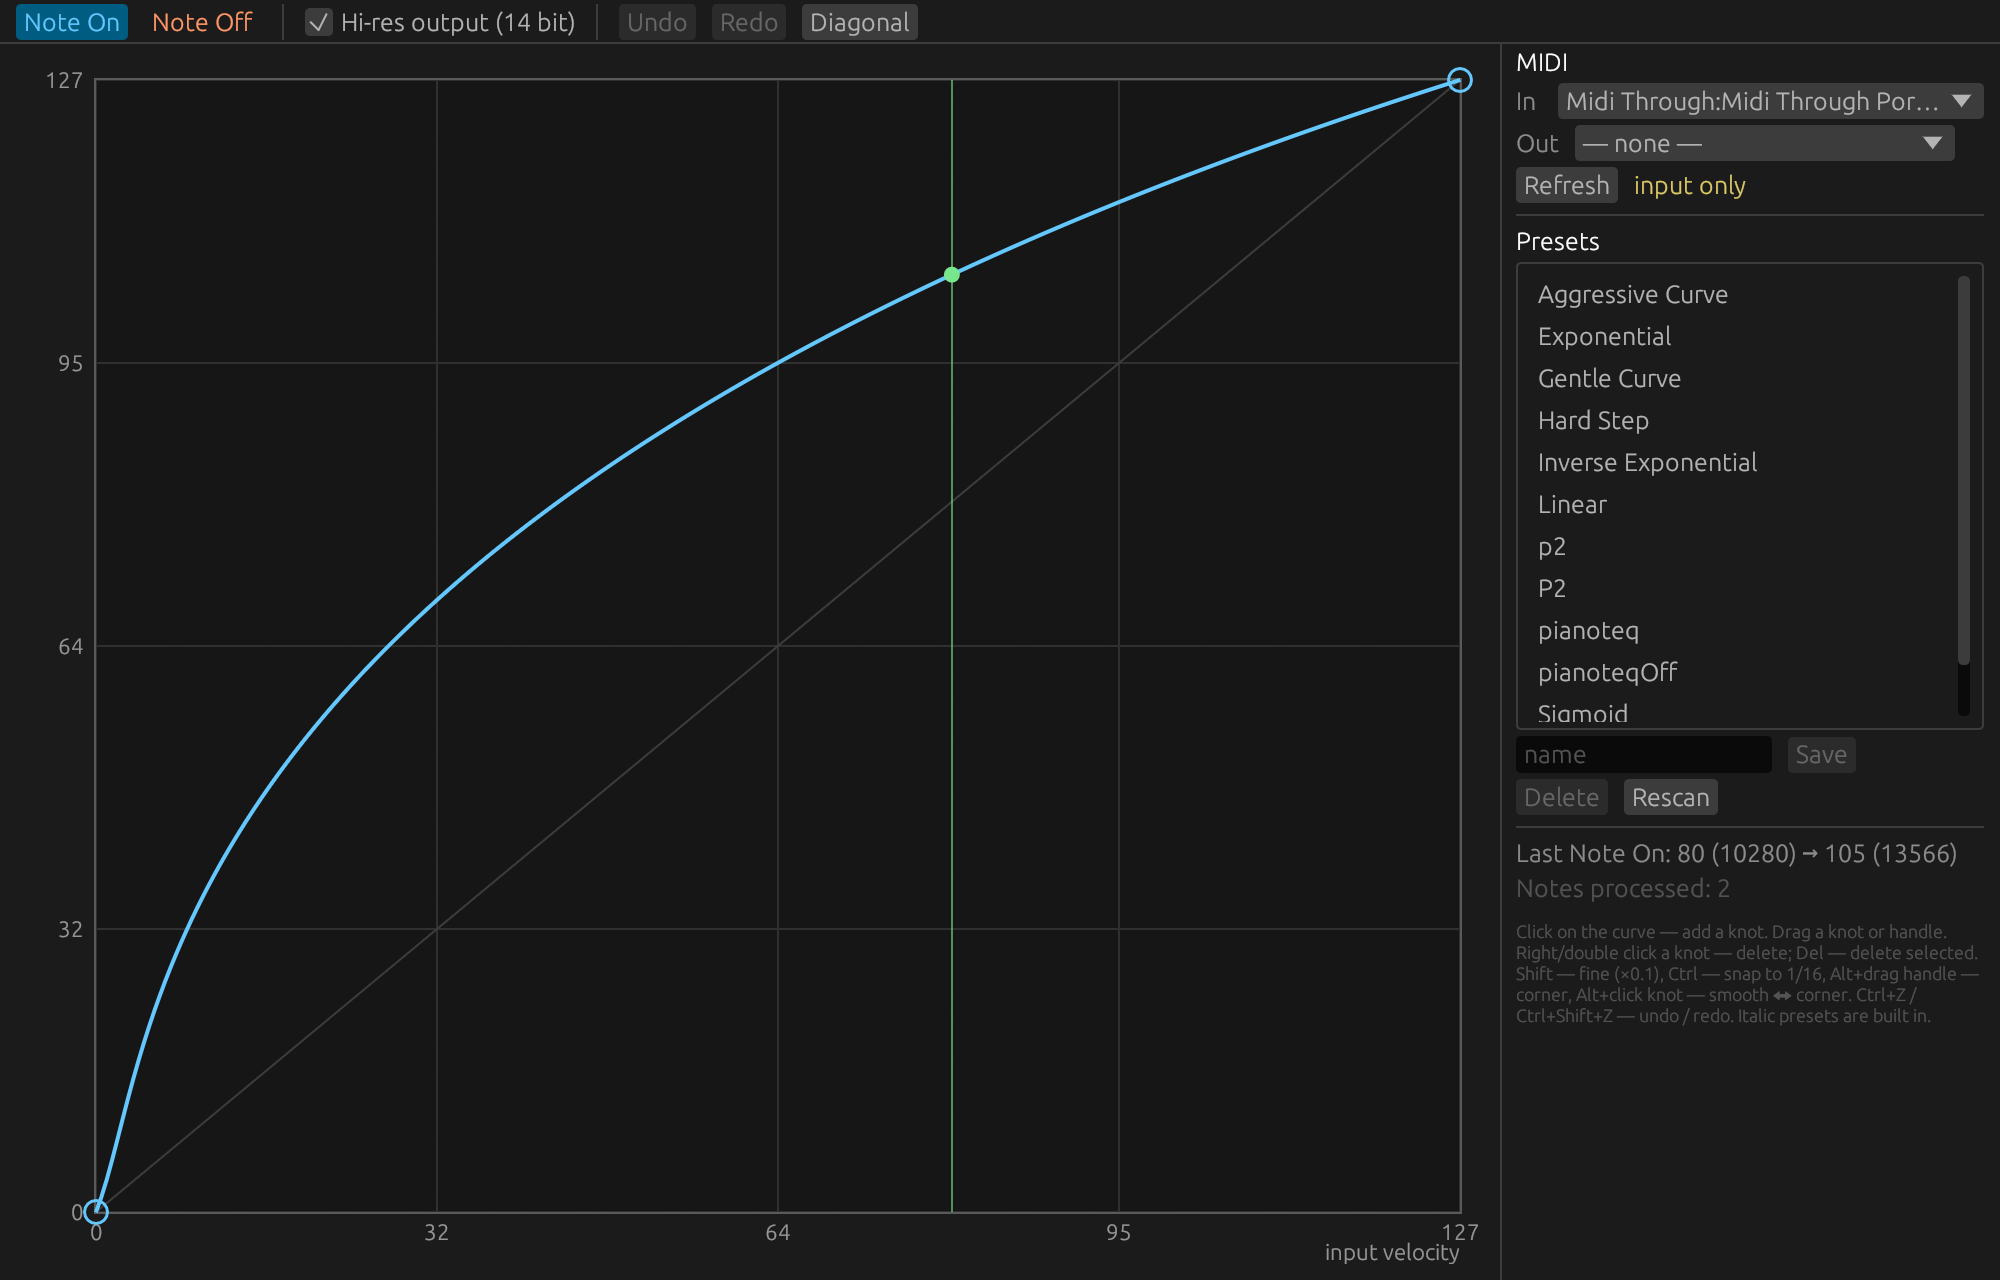
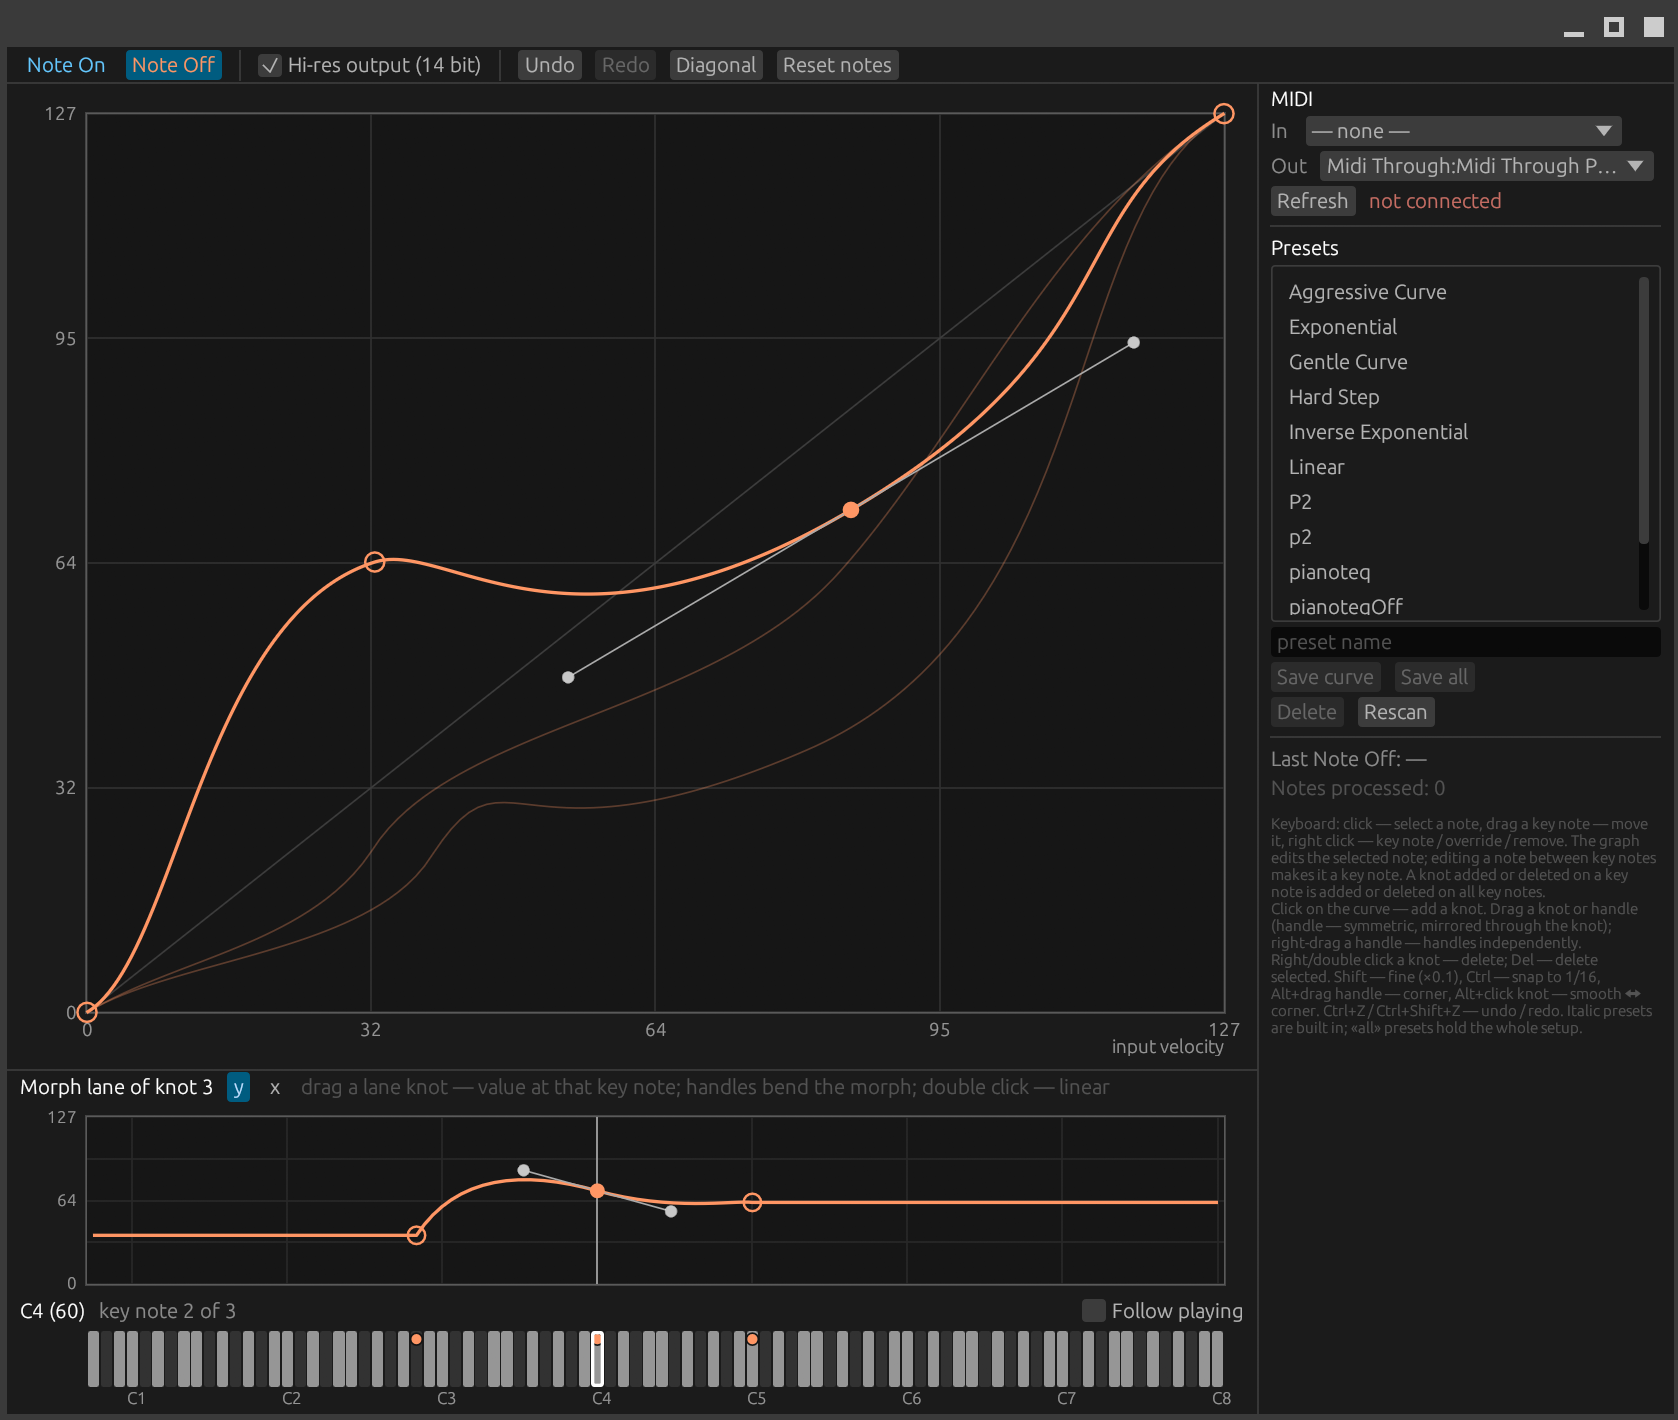
Новый скриншот standalone: покнотные кривые, дорожка морфинга, клавиатура

diff --git a/README.md b/README.md
@@ -15,7 +15,7 @@ editor — and every key can have its own curve: set a few key notes, the curves
 in between morph knot by knot. High-resolution (14-bit) velocity via the CC88
 prefix is supported on input and output.
 
-![MIDI Curves standalone: Note On curve with the last note marker, MIDI ports and presets](img/standalone.png)
+![MIDI Curves standalone: Note Off curve of key note C4 with the neighbouring key notes, morph lane of a knot, keyboard strip, MIDI ports and presets](img/standalone.png)
 
 *Standalone app. The plugin shows the same editor without the MIDI panel.*
 
